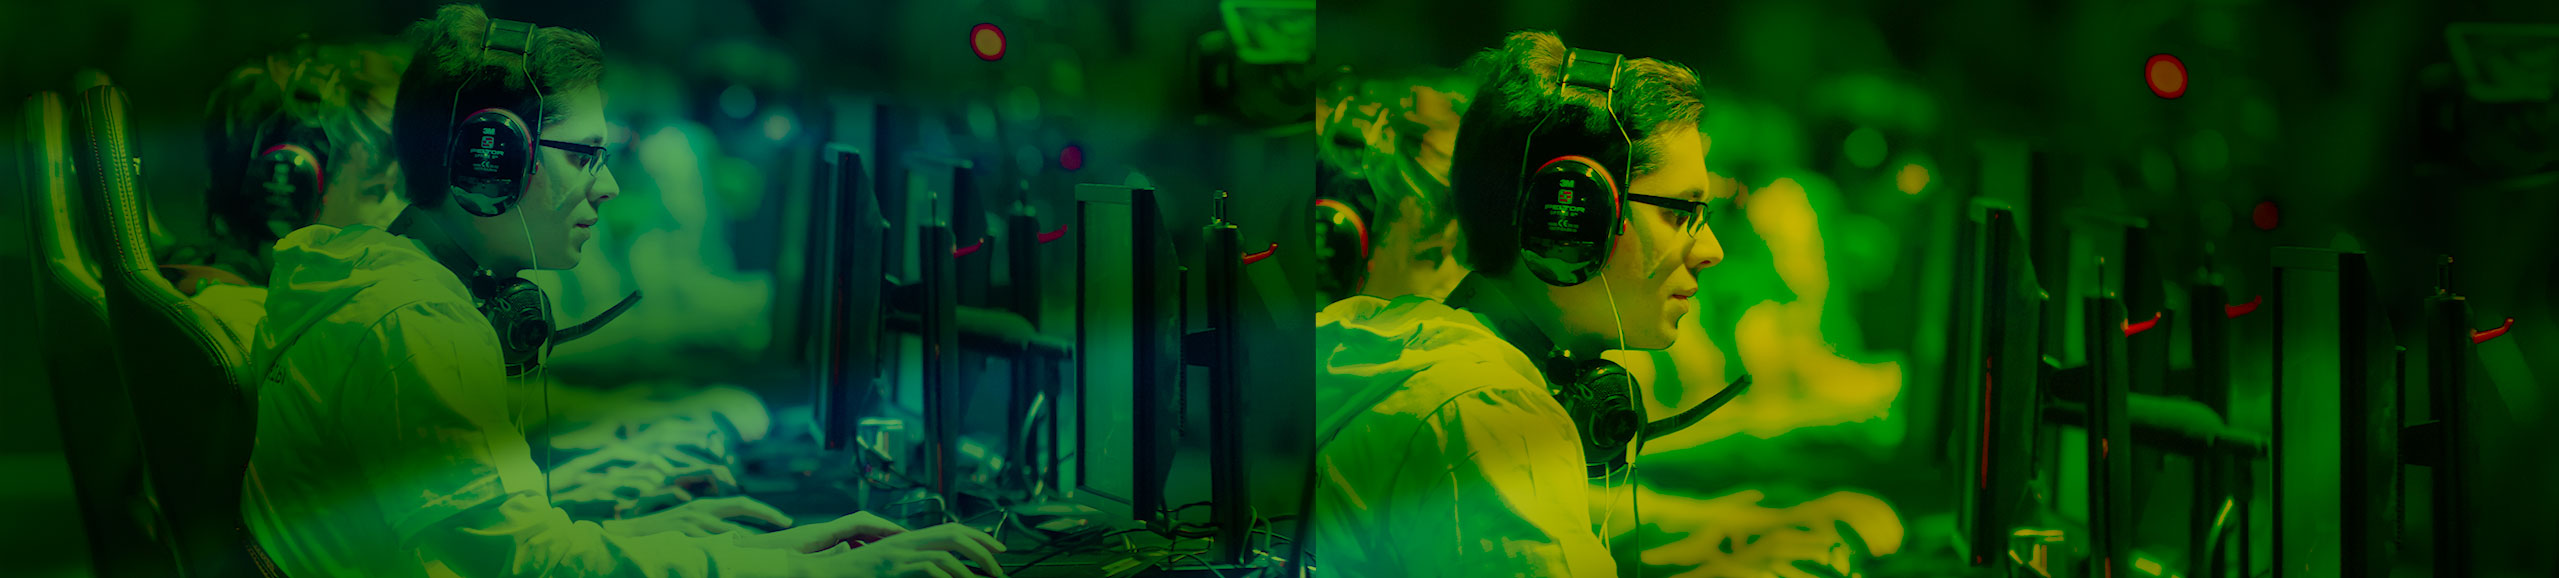
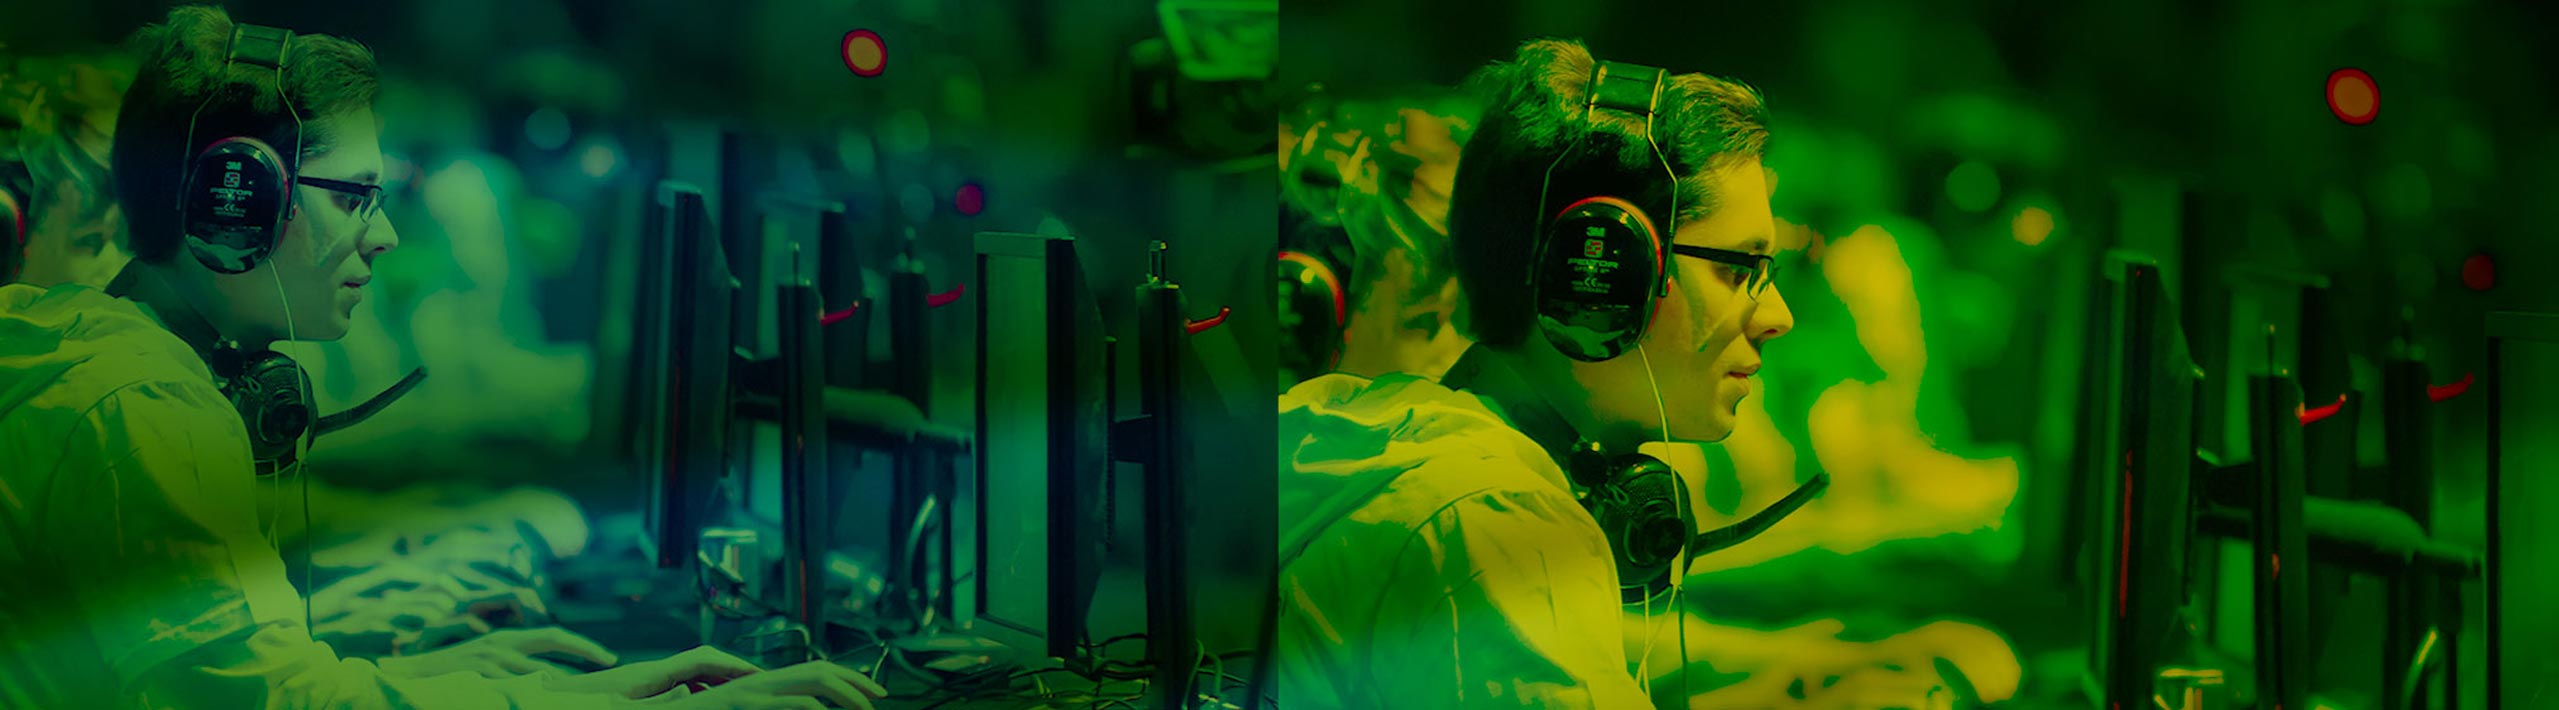
player bg fix auto size

diff --git a/app/assets/stylesheets/home.css.scss b/app/assets/stylesheets/home.css.scss
@@ -1,3 +1,6 @@
 // Place all the styles related to the home controller here.
 // They will automatically be included in application.css.
 // You can use Sass (SCSS) here: http://sass-lang.com/
+.container_bg{
+  background: url(image_path('bg_player.jpg')) repeat-x scroll center center #000000;
+}

diff --git a/app/assets/stylesheets/channels.css.scss b/app/assets/stylesheets/channels.css.scss
@@ -1,4 +1,4 @@
 
 .container_bg{
-  background: url(image_path('bg_player.jpg')) repeat-x scroll center top #000000;
+  background: url(image_path('bg_player.jpg')) repeat-x scroll center center #000000;
 }
